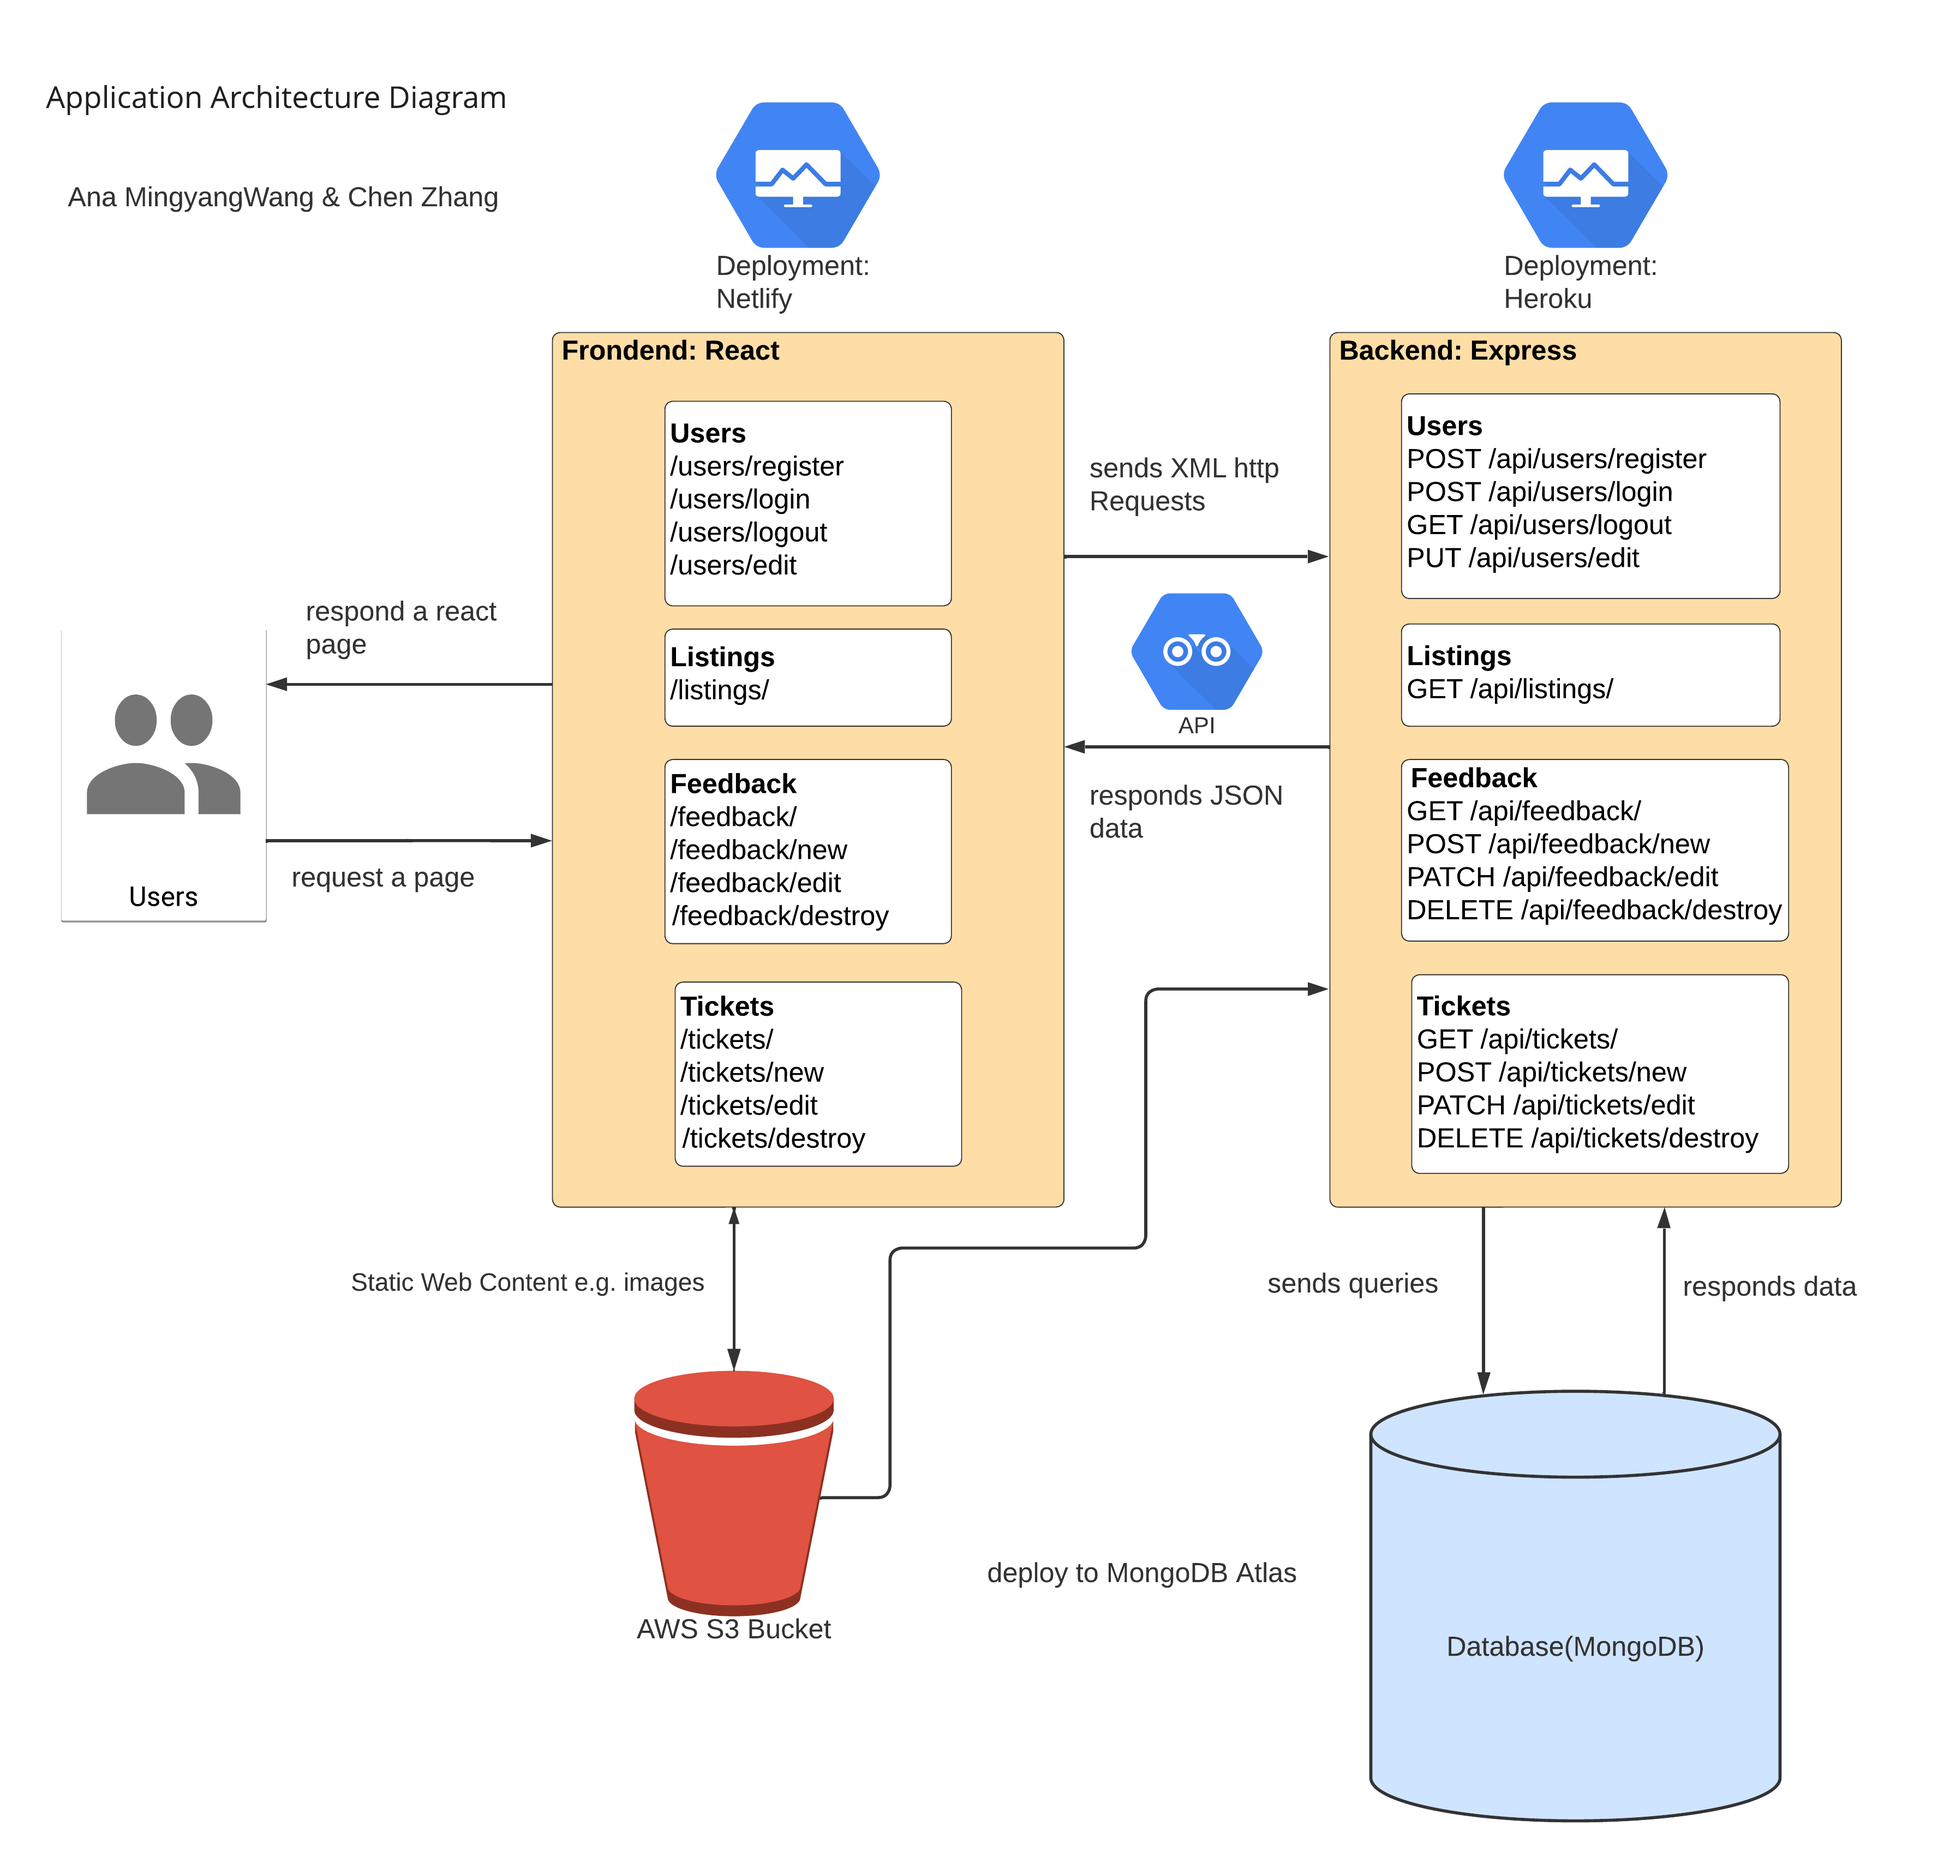
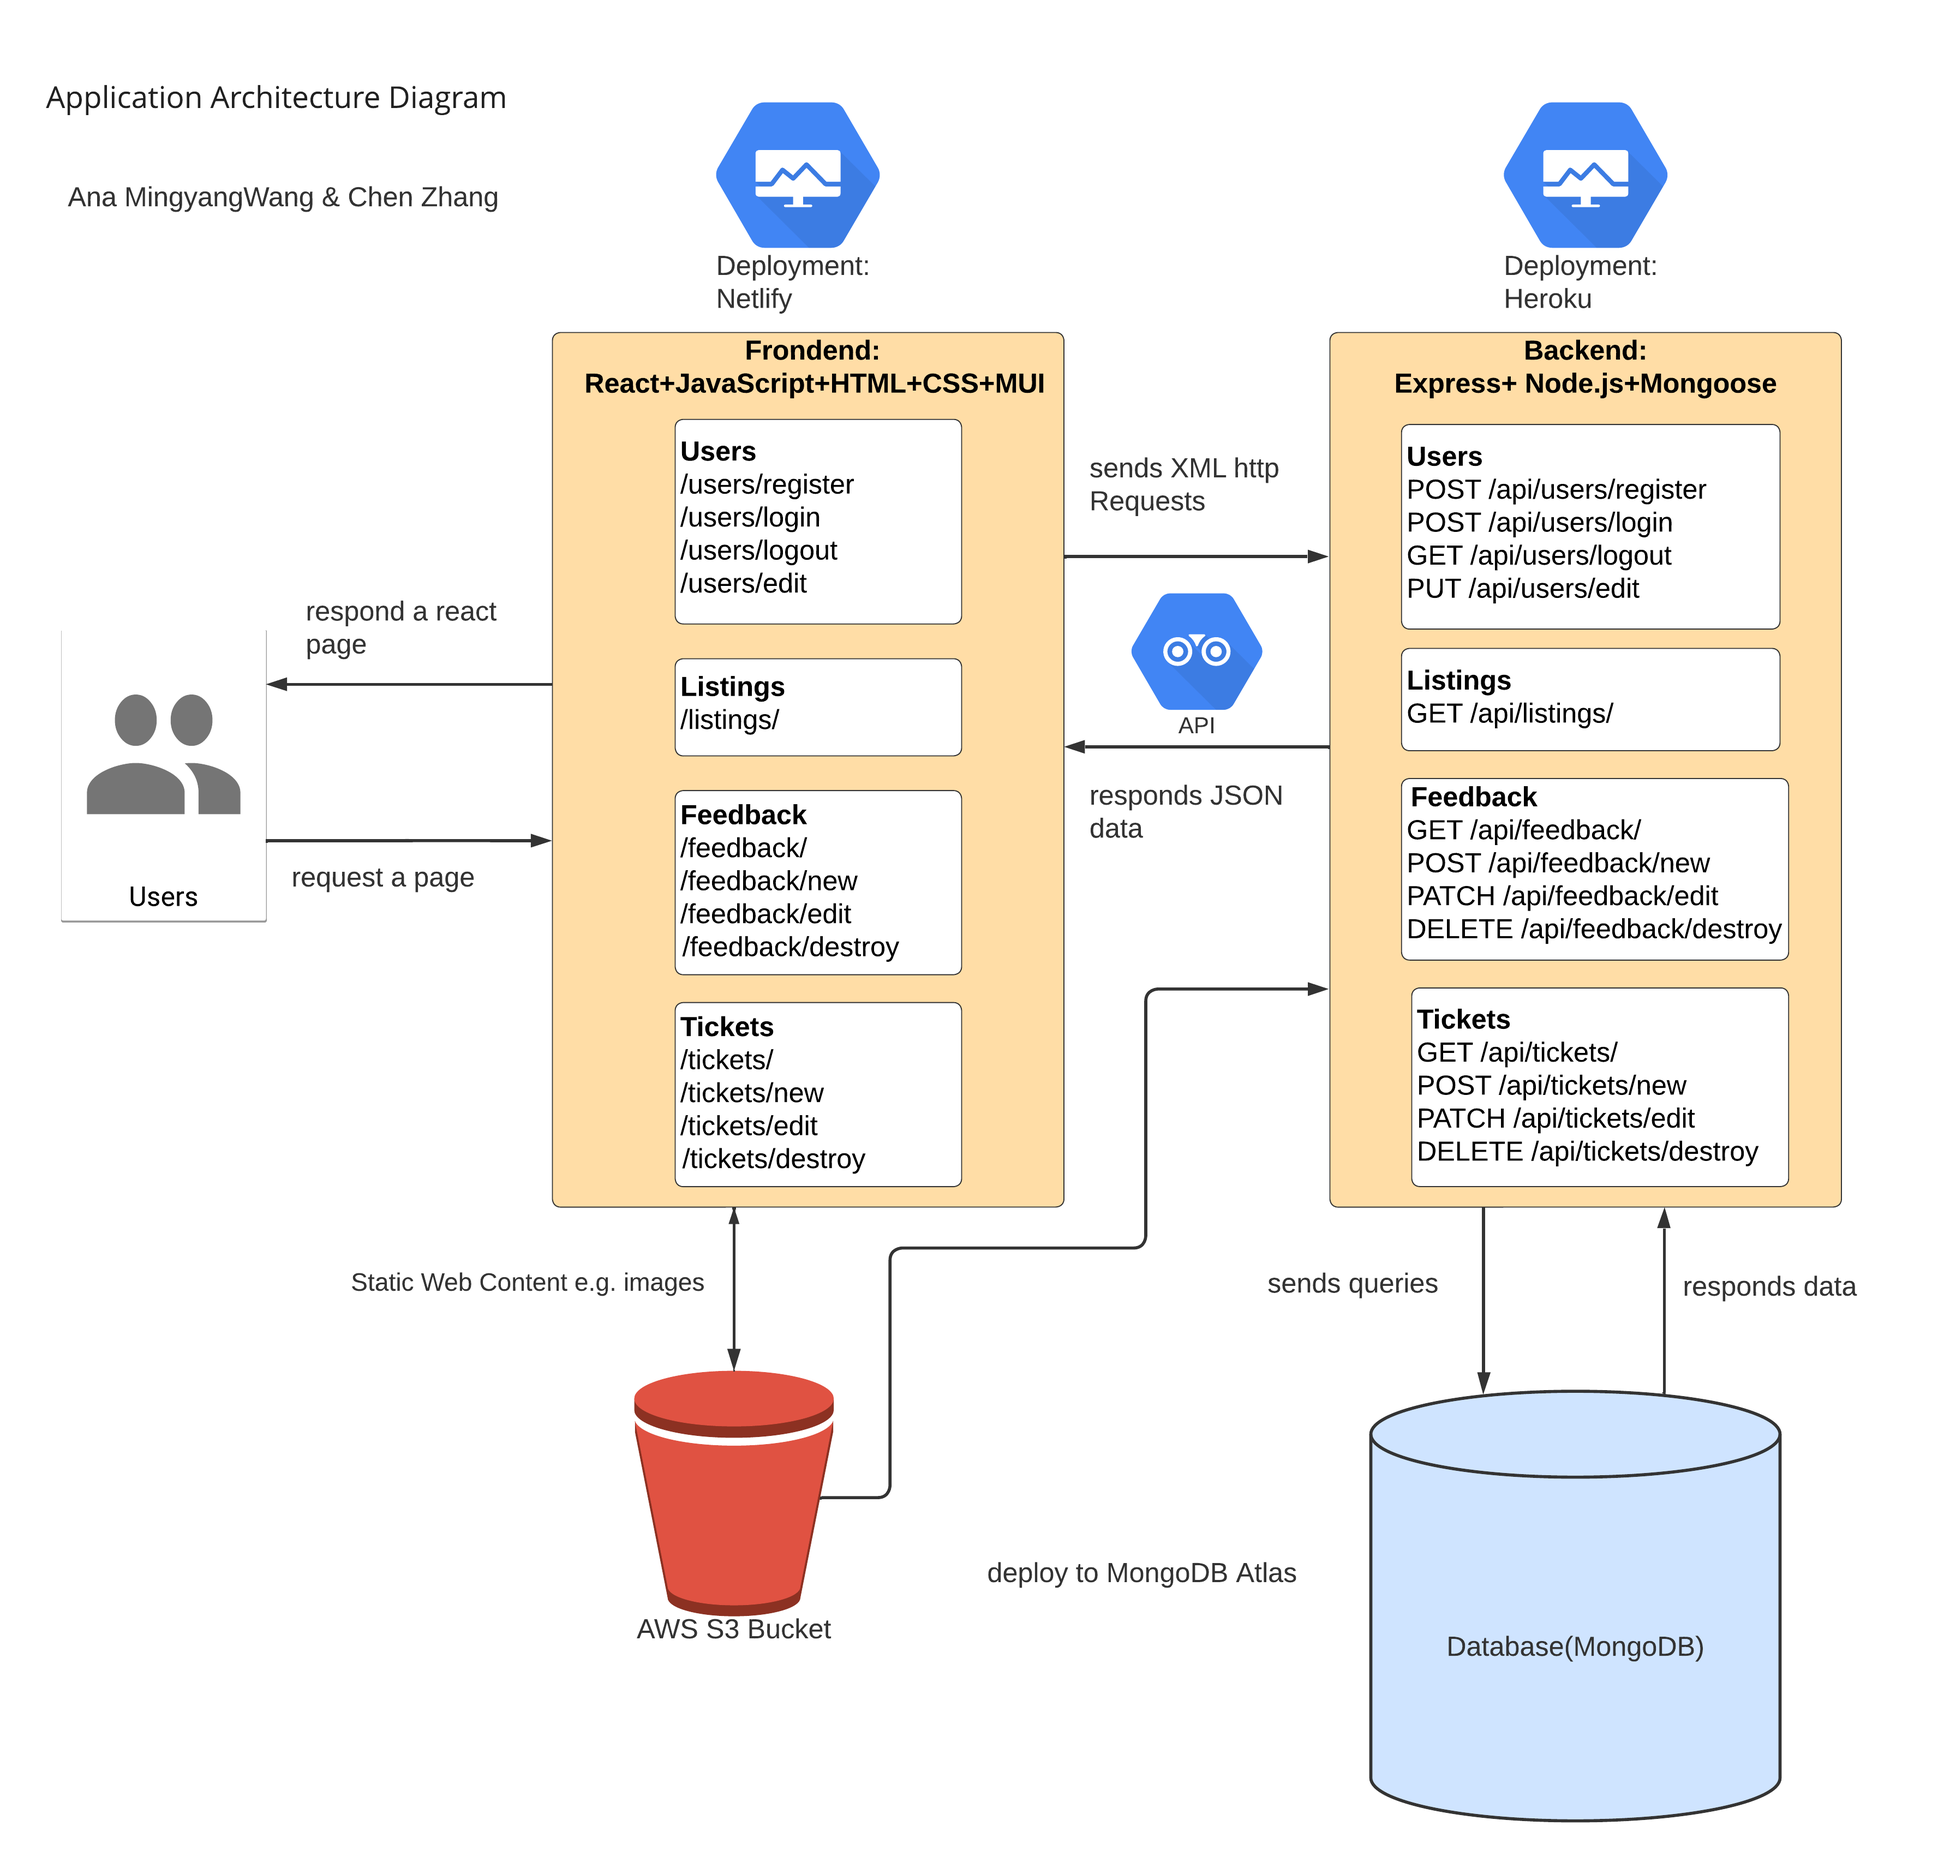
updated tech stack and application architecture diagram

Changed region(s): [[0.6854, 0.1863, 0.9346, 0.6522], [0.2804, 0.1863, 0.5296, 0.6522]]

diff --git a/README.md b/README.md
@@ -14,13 +14,13 @@
 
   - The TSM team constantly gets a lot of requests from other teams globally across Canva to create, update or localise (translate to different languages) landing or existing pages. Every season (3 months period) they have to build a roadmap of all the things that they want to work on which is a complicated process as they always have more work than the team can handle and it’s not always clear what is the most important for Canva. The consequence of this unclear path is that their process of prioritisation of projects can be very chaotic. The team has to figure out how to use their limited time to work on the most important projects that will make a big impact for the company. At the same time, they also have to demonstrate their roadmap to leadership to make sure it’s aligned with the overall strategy of the company.
 
-  - Our project management application will help the TSM team to collect ideas from various people at Canva and add relevant context/additional information to each idea. The application will also automatically calculate the ICE score that is required by the managers for their decision-making process. It allows managers to provide feedback for each idea so people can review their ideas. This application will let users free from those manual spreadsheets and improve their productivity.
+  - Our project management application will help the TSM team to collect ideas from various people at Canva and add relevant context/additional information to each idea. The application will also automatically calculate the ICE score that is required by the managers for their decision-making process. It allows managers to provide feedback for each idea so people can review their ideas. This application will let users be free from those manual spreadsheets and improve their productivity.
 
 - **_Functionality / features_**
 
   - Our application will have the following functionality / features:
 
-  - Enable users (both employees and managers) to register to the application (authentication)
+  - Enable users (both employees and managers) to register the application (authentication)
 
   - Allow users to submit their ideas
 
@@ -34,7 +34,7 @@
 
   - Allow managers (only) to add, edit, and delete their feedback before submission
 
-  - Allow managers (only) to edit other users' ICE score (impact, confidence, and effort)
+  - Allow managers (only) to edit other users' ICE scores (impact, confidence, and effort)
 
   - Enable users to search for projects
 
@@ -46,9 +46,9 @@
 
   MERN full stack app:
 
-  - Front-end: React interacts with users
+  - Front-end: React interacts with users, JavaScript, HTML
 
-  - Back-end: Express handles routes and HTTP requests and responses
+  - Back-end: Express for web frame work, Node.JS for web server, Mongoose for a connection between MongoDB and the Node.js JavaScript runtime environment
 
   - Database: MongoDB processes and stores database
 
